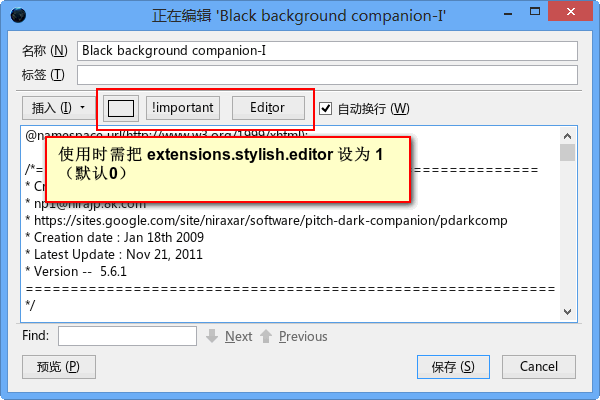
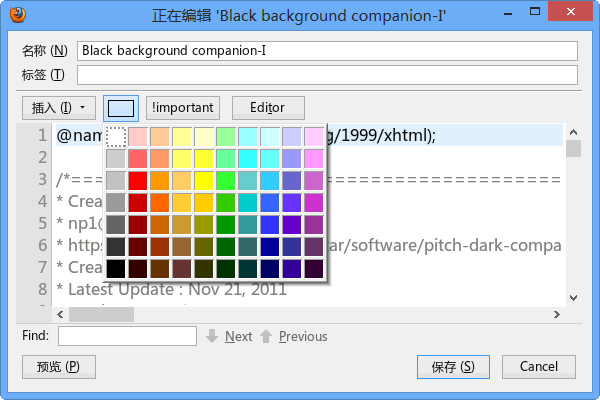
修复了在富文本编辑器下编辑的情况

Changed region(s): [[0.03, 0.21, 0.99, 0.81], [0.0, 0.0, 0.06, 0.06], [0.9, 0.78, 0.96, 0.81]]

diff --git a/stylishEdit/stylish0.5_edit.uc.js b/stylishEdit/stylish0.5_edit.uc.js
@@ -6,8 +6,9 @@
 // @compatibility  Firefox 2.0 3.0
 // @author         Original Author: pile0nades
 // @modifier       Alice0775
-// @note           使用时需把 extensions.stylish.editor 设为 1（默认0）
-// @modifier       ywzhaiqi 编辑器路径移到最前面，如果为空则为 about:config 中 view_source.editor.path。
+// @modifier       ywzhaiqi
+// @note           修复了原脚本只能在纯文本下编辑的情况（即使用时需把 extensions.stylish.editor 设为 1，默认0）。现在无需设置也能使用。
+// @note           编辑器路径移到最前面，如果为空则为 about:config 中 view_source.editor.path。
 // @version        2009/04/30 version 1.0対応(tnks 音吉) でも0.59で不具合がないなら1.0にしない方がいいよ
 // @version        2007/05/25
 // @Note
@@ -61,6 +62,8 @@ WindowHook.register("chrome://stylish/content/edit.xul",
 
     var EDITOR_PATH = "";
 
+    var isNewEditor = Services.prefs.getIntPref('extensions.stylish.editor') === 0;
+
     // get the checkbox
     var checkbox = aWindow.document.getElementById("wrap-lines");
 
@@ -82,7 +85,12 @@ WindowHook.register("chrome://stylish/content/edit.xul",
 
         var getColor = function(){
                 if (arguments.callee.caller.name != 'onchange') return;  //why is this necessary?
-                var box    = aWindow.document.getElementById("internal-code").mInputField;
+                var box;
+                if(isNewEditor){
+                    box = aWindow.codeElementWrapper;
+                }else{
+                    box = aWindow.document.getElementById("internal-code").mInputField;
+                }
                 var text   = box.value.toString()
                 var s      = box.selectionStart;
                 var e      = box.selectionEnd;
@@ -107,18 +115,24 @@ WindowHook.register("chrome://stylish/content/edit.xul",
 
       // add click event to button
       button.addEventListener("click", function() {
-        var codeElement = aWindow.document.getElementById("code");
-        if (!codeElement)
-          codeElement = aWindow.document.getElementById("internal-code");
-        var box = codeElement.mInputField;
+        var box, codeElement;
+        if(isNewEditor){
+            box = codeElement = aWindow.codeElementWrapper;
+        }else{
+            var codeElement = aWindow.document.getElementById("code");
+            if (!codeElement)
+              codeElement = aWindow.document.getElementById("internal-code");
+            box = codeElement.mInputField;
+        }
         var scroll = [box.scrollTop, box.scrollLeft];
         var code = codeElement.value;
+
         code = code.replace(/\s*?!\s*?important/gi, "")    // remove existing !important's to simplify things
         //change ;base64 to __base64__ so we don't match it on the ; when we split declarations
         code = code.replace(/;base64/g, "__base64__");
         var declarationBlocks = code.match(/\{[^\{\}]*[\}]/g);
         var declarations = [];
-        declarationBlocks.forEach(function (declarationBlock) {
+        declarationBlocks && declarationBlocks.forEach(function (declarationBlock) {
         declarations = declarations.concat(declarationBlock.split(/;/));
         });
         //make sure everything is really a declaration, and make sure it's not already !important
@@ -159,8 +173,9 @@ WindowHook.register("chrome://stylish/content/edit.xul",
     // add click event to button
     button.addEventListener("click", function() {
       var textarea = aWindow.document.getElementById("code");
-      if (!textarea)
-        textarea = aWindow.document.getElementById("internal-code");
+        if (!textarea)
+          textarea = aWindow.document.getElementById("internal-code");
+
       try{
         editinit();
         edittarget(textarea);
@@ -252,10 +267,19 @@ WindowHook.register("chrome://stylish/content/edit.xul",
 
         textBoxText = sstream.read(sstream.available());
         encode = target.getAttribute("encode");
-        if(textBoxText.length)
-          target.value = utf.convertStringToUTF8(textBoxText, encode, true);
-        else
-          target.value = "";
+
+        var box;
+        if(isNewEditor){
+            box = aWindow.codeElementWrapper;
+        }else{
+            box = target;
+        }
+
+        if(textBoxText.length){
+            box.value = utf.convertStringToUTF8(textBoxText, encode, true);
+        }else{
+            box.value = "";
+        }
 
         sstream.close();
         istr.close();
@@ -294,6 +318,9 @@ WindowHook.register("chrome://stylish/content/edit.xul",
     function edittarget(target){
 
       var textBoxText = target.value;
+      if(!textBoxText){
+        textBoxText = aWindow.codeElementWrapper.value;
+      }
       // Get filename.
       var file = Components.classes["@mozilla.org/file/local;1"].
                  createInstance(Components.interfaces.nsILocalFile);

diff --git a/stylishEdit/README.md b/stylishEdit/README.md
@@ -1,11 +1,9 @@
 # stylish0.5_edit.uc
 
-为 Stylish 添加外部编辑器、颜色选择、自动添加 !important 功能。
+为 Stylish 增加外部编辑器、颜色选择、添加 !important 功能。**修复了原脚本只能在纯文本下编辑的情况（即使用时需把 extensions.stylish.editor 设为 1，默认为0）。现在无需设置也能使用。**
 
 ![效果图](stylish0.5_edit.uc.js.png)
 
 ## 说明
 
- - 使用时需把 extensions.stylish.editor 设为 1（默认0）。
  - 第62行 EDITOR\_PATH 为编辑器路径，如果空则为 about:config 中 "view_source.editor.path" 的路径。
- - 改了后原输入框没有了代码高亮。
